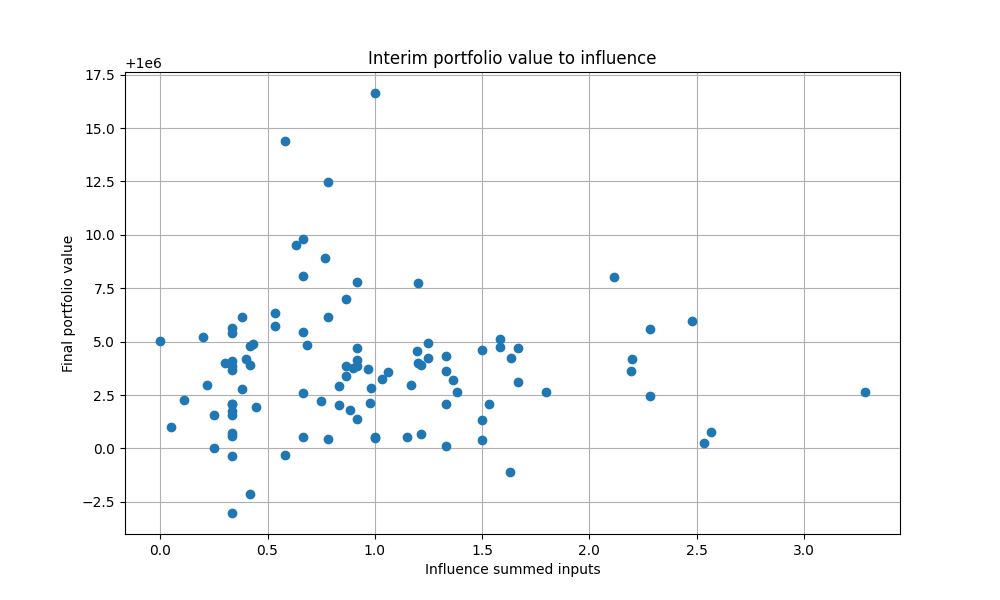
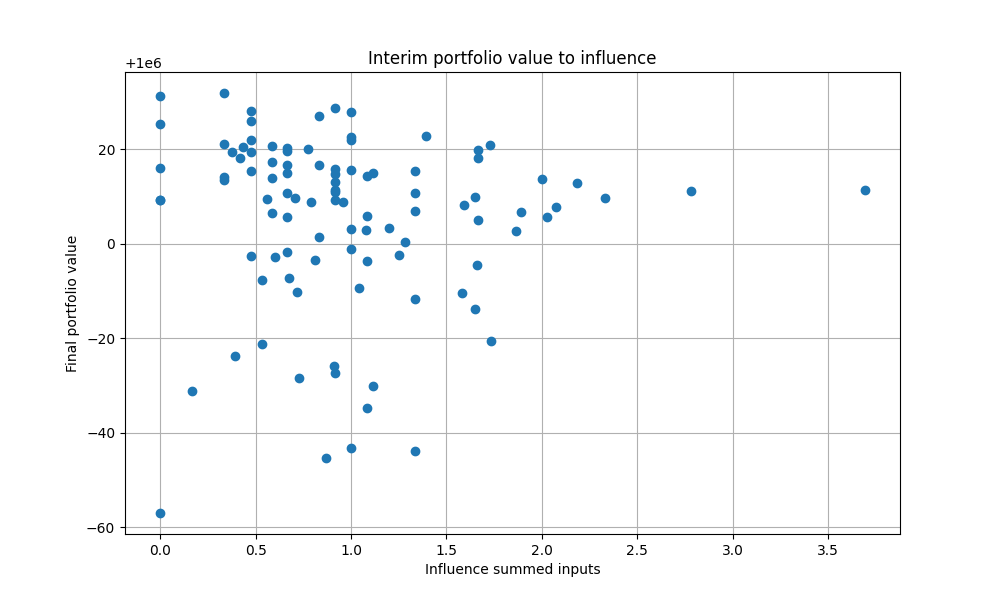
current status 04112024 1651

diff --git a/Code/broker.py b/Code/broker.py
@@ -16,9 +16,9 @@ class Broker:
         self.neighbor_weight = neighbor_weight
 
         self.preferred_risk_minimum = risk_minimum
-        self.preferred_risk_maximum = risk_minimum*25/15
+        self.preferred_risk_maximum = risk_minimum*20/15
 
-        self.risk_percentile = math.exp(.046*self.preferred_risk_minimum) - 1
+        self.risk_percentile = math.exp(.045*self.preferred_risk_minimum) - 1
         if self.risk_percentile >= 1.0:
             self.risk_percentile = .99
         print(self.preferred_risk_minimum, self.preferred_risk_maximum, self.risk_percentile)
@@ -37,15 +37,16 @@ class Broker:
         neighbor_factor2 = self.get_neighbor_factor(graph, available_stocks, id_to_broker_map, stocks, date)
 
         transaction_count = 0
-        while (self.current_risk < self.preferred_risk_minimum or self.current_risk > self.preferred_risk_maximum or random.random() < .4) and transaction_count < 20:
+        while (self.current_risk < self.preferred_risk_minimum or self.current_risk > self.preferred_risk_maximum or random.random() < .3) and transaction_count < 25:
             # is there a better way to choose then randomly selecting higher or lower risk
             # if large gap, pull from back, if small from front half?
             transaction_count += 1
             if self.preferred_risk_minimum > self.current_risk and self.money > 100:
+                # print(45, len(available_stocks))
                 # assess risk of every stock available and sort from lowest to highest risk
                 risk_dict = dict()
                 for stock in available_stocks:
-                    risk_dict[stock] = self.assess_risk(stock, stocks, date) #* (1-self.neighbor_weight) + neighbor_factor1[stock] * self.neighbor_weight
+                    risk_dict[stock] = self.assess_risk(stock, stocks, date) * (1-self.neighbor_weight) + neighbor_factor1[stock] * self.neighbor_weight
                 sorted_list = sorted(risk_dict.keys(), key=risk_dict.get)
 
                 # select from stocks whose stock assessment put them in the risk min / 100 top percent of stocks
@@ -58,6 +59,7 @@ class Broker:
                 self.portfolio[plan] += 1
 
             elif self.preferred_risk_maximum < self.current_risk or self.money < 100:  # if above preferred risk or running out of money or noise, sell
+                # print(62)
                 risk_dict = dict()
                 for stock in self.portfolio:
                     if self.portfolio[stock] > 0:
@@ -73,6 +75,8 @@ class Broker:
                 self.portfolio[plan] -= 1
 
             elif self.money > 100:
+                # print(78)
+
                 # assess risk of every stock available and sort from lowest to highest risk
                 risk_dict = dict()
                 for stock in available_stocks:
@@ -88,9 +92,9 @@ class Broker:
                 self.money -= stocks[plan].date_to_price[date]
                 self.portfolio[plan] += 1
 
-
             self.assess_portfolio_risk(stocks, date)
         # print(self.id, self.current_risk)
+        # print(transaction_count)
 
         # update public status
         if self.adjust_influence:
@@ -165,7 +169,7 @@ class Broker:
 
         for ticker in self.portfolio:
             current_amount = self.portfolio[ticker] * stocks[ticker].date_to_price[date]
-            portfolio_allocation = (current_amount) / (self.get_status(stocks, date) - self.money) if self.portfolio[ticker] != 0 else 0
+            portfolio_allocation = current_amount / (self.get_status(stocks, date) - self.money) if self.portfolio[ticker] != 0 else 0
 
             portfolio_allocations.append(portfolio_allocation)
             volumes.append(self.portfolio[ticker])
@@ -185,5 +189,5 @@ class Broker:
             individual_risk = a * x
             total_risk += abs(individual_risk * volumes[i]) # scale up just for easier intuitive sense for parameters
 
-        self.current_risk = total_risk #- self.money / 1000
+        self.current_risk = total_risk
         return self.current_risk

diff --git a/Code/simulation.py b/Code/simulation.py
@@ -18,12 +18,12 @@ from stock import Stock
 # Parameters for simulation
 
 N = 100  # number of brokers
-neighbor_influence = 0  # percent of risk assessment determined by neighbors
+neighbor_influence = 0.05  # percent of risk assessment determined by neighbors
 adjust_influence = False
 seed_money = 1_000_000
 trials = 1  # not really using this since just doing a single run currently since its such a long runtime
 start = "01/01/2003"  # date to start simulation
-end = "01/10/2003"  # date to stop simulation
+end = "01/31/2003"  # date to stop simulation
 input_data_filename = 'data/ticker_info_400_all_catagories.csv'
 figure_file_directory = 'figures'
 # -------------------------------------------------------------------------------------------------------------------- #
@@ -65,7 +65,7 @@ stock_df.set_index('Ticker', inplace=True)
 
 # convert to dictionary of ticker to Stock class objects
 stocks = dict()
-# random.shuffle(valid_tickers)
+random.shuffle(valid_tickers)
 for idx, ticker in enumerate(valid_tickers):
     try:
         dates = ast.literal_eval(stock_df.at[ticker, 'dates'])
@@ -80,7 +80,7 @@ for idx, ticker in enumerate(valid_tickers):
     stocks[ticker] = Stock(ticker, forward_eps, earnings_growth, dividend_ratio, dates, prices)
     if idx % 100 == 0:
         print(f"completed ticker {ticker} at index {idx} at time {time()}...")
-    if idx > 175:  # TODO: REMOVE WHEN ACTUALLY RUNNING
+    if idx > 175:  # TODO: Check if this restriction affects portfolio size
         break  # cut off sooner to speed up integration testing
 
 print(f"stocks dictionary created successfully ({time()})...")
@@ -109,12 +109,15 @@ for trial in range(trials):
                 broker_network.add_edge(i, neighbor, weight=1/friend_count_dist[i])
                 brokers[neighbor].in_neighbors[i] = 1 / friend_count_dist[i]  # not a clean way to do this but it'll work hopefully
 
+    for b in brokers:
+        for neighbor in b.in_neighbors:
+            b.in_neighbors[neighbor] = 1 / len(b.in_neighbors)
+
     # display the network created
     # nx.draw(broker_network, with_labels=True, font_color='white', node_shape='s')
     # plt.show()
 
     start_date, end_date = datetime.strptime(start, "%m/%d/%Y"),  datetime.strptime(end, "%m/%d/%Y")
-    end_date = datetime.strptime(end, "%m/%d/%Y")
     date = start_date
     curr_time = time()
     while date < end_date:
@@ -141,6 +144,8 @@ for trial in range(trials):
                 # broker.money += 1_000
                 broker.update(broker_network, available_stocks, brokers, stocks, date.strftime("%m/%d/%Y"))
                 prev = time()
+
+        # TODO: add dividend
 
         for broker in brokers:
             broker_statuses[broker.id].append(broker.get_status(stocks, date.strftime("%m/%d/%Y")))
@@ -195,7 +200,7 @@ for trial in range(trials):
     #     plot_times(dates, [broker_statuses[b.id]], [f'broker {b.id}'], 'dates', f'portfolio and currency value of broker {b.id}', f'broker wealth time series {b.id}', f'timeseries{b.id}.png')
     #     plot_times(dates, [broker_risks[b.id]], [f'broker {b.id}'], 'dates', f'risk of broker {b.id}', f'broker risk time series {b.id}', f'riskseries{b.id}.png')
 
-    random_ids = random.sample(brokers, 10)
+    random_ids = sorted(random.sample(brokers, 10))
     plot_times(dates, [broker_statuses[b.id] for b in random_ids], [f'Broker {i.id}' for i in random_ids],
                'Dates', 'Broker wealth', 'Broker wealth time series', f'timeSeriesJoint.png')
     plot_times(dates, [broker_risks[b.id] for b in random_ids], [f'Broker {i.id}' for i in random_ids],
